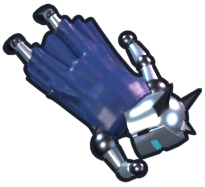
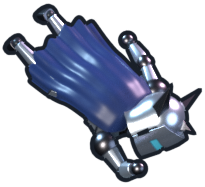
feat: add kneeling sprite and refine collapsed cape

diff --git a/dev-samples/3d-stage1/rigged-armor/build.py b/dev-samples/3d-stage1/rigged-armor/build.py
@@ -1174,14 +1174,12 @@ POSES = {
           'upper_arm.R': (170, 0, 40), 'forearm.R': (60, 0, 0),
           'shin.L': (-25, 0, 0), 'shin.R': (-10, 0, 0),
           **{f'cape.{s}.{k}': (a, 0, 0) for s in 'LCR'
-             for k, a in ((1, 0), (2, 20), (3, 5), (4, 5))}}),
+             for k, a in ((1, 0), (2, 22), (3, 24 if s == 'C' else 21),
+                          (4, -8 if s == 'C' else -12))}}),
 }
 COLLAPSED_FRAME = 120
 # Names of the sword parts in the right hand.
 SWORD_PREFIXES = ('Sword ', 'Chimera sword ', 'Cursed sword ', 'Blessed sword ')
-# Voxel size of the smooth envelope the collapsed cape is draped onto, and
-# how far (0 to 1) the cape drops from where its bones hold it onto it.
-DRAPE_VOXEL, DRAPE_AMOUNT, DRAPE_AMOUNT_BETWEEN_LEGS = .02, .3, .2
 
 
 def animate(rig, scene):
@@ -1201,7 +1199,7 @@ def animate(rig, scene):
     # the root by the lowest point's drop below the standing figure's lowest
     # point, and move it so the laid figure's footprint is centred. The
     # collapsed figure holds no sword, so swords are left out; the cape is
-    # cloth that the body presses flat, so it is left out too.
+    # cloth, so it is left out too.
     soft = SWORD_PREFIXES + ('Cape',)
 
     def points():
@@ -1228,7 +1226,6 @@ def animate(rig, scene):
         # world up and local Z world -Y.
         root.location = ((-center_x, lift, center_y) if frame == COLLAPSED_FRAME else (0, 0, 0))
         root.keyframe_insert('location', frame=frame, group='root')
-    drape_cape(rig, scene, standing)
     # Dim the visor while collapsed (heroic 'Player dimmed visor').
     visor = bpy.data.materials['Player visor glow'].node_tree.nodes['Principled BSDF']
     for frame in POSES:
@@ -1240,81 +1237,6 @@ def animate(rig, scene):
             visor.inputs[name].keyframe_insert('default_value', frame=frame)
     scene.frame_end = max(POSES)
     scene.frame_set(1)
-
-
-def drape_cape(rig, scene, floor_z):
-    """Let the cape fall onto the collapsed body: a Shrinkwrap modifier,
-    on only at the collapsed frame, projects it straight down onto a hidden,
-    smooth envelope of the laid body and the floor, so it lies along the back
-    and drops to the floor past the sides. The envelope is a voxel remesh of
-    the armor (which wraps its seams, belt and plate edges) and a thin floor
-    slab around it."""
-    scene.frame_set(COLLAPSED_FRAME)
-    depsgraph = bpy.context.evaluated_depsgraph_get()
-    bm = bmesh.new()
-    xs, ys = [], []
-    for obj in scene.objects:
-        if (obj.type == 'MESH' and obj.parent == rig and not obj.hide_render
-                and not obj.name.startswith(SWORD_PREFIXES + ('Cape',))):
-            evaluated = obj.evaluated_get(depsgraph)
-            mesh = evaluated.to_mesh()
-            mesh.transform(evaluated.matrix_world)
-            xs += [v.co.x for v in mesh.vertices]
-            ys += [v.co.y for v in mesh.vertices]
-            bm.from_mesh(mesh)
-            evaluated.to_mesh_clear()
-    margin = .3
-    slab = bmesh.ops.create_cube(bm, size=1)['verts']
-    low, high = Vector((min(xs) - margin, min(ys) - margin, floor_z - .03)), Vector((max(xs) + margin, max(ys) + margin, floor_z))
-    for vertex in slab:
-        vertex.co = Vector(low[i] if vertex.co[i] < 0 else high[i] for i in range(3))
-    target_mesh = bpy.data.meshes.new('Cape drape target')
-    bm.to_mesh(target_mesh)
-    bm.free()
-    target = bpy.data.objects.new('Cape drape target', target_mesh)
-    scene.collection.objects.link(target)
-    remesh = target.modifiers.new('Envelope', 'REMESH')
-    remesh.mode, remesh.voxel_size = 'VOXEL', DRAPE_VOXEL
-    bpy.context.view_layer.update()
-    evaluated = target.evaluated_get(bpy.context.evaluated_depsgraph_get())
-    envelope = bpy.data.meshes.new_from_object(evaluated)
-    target.modifiers.remove(remesh)
-    target.data = envelope
-    bpy.data.meshes.remove(target_mesh)
-    target.hide_render = True
-    target.display_type = 'WIRE'
-    target.hide_set(True)
-    cape_obj = bpy.data.objects['Cape']
-    # Finer cloth first, so the part past the sides drops steeply instead of
-    # cutting across the body's edge between coarse vertices.
-    finer = cape_obj.modifiers.new('Drape detail', 'SUBSURF')
-    finer.subdivision_type, finer.levels, finer.render_levels = 'SIMPLE', 2, 2
-    drape = cape_obj.modifiers.new('Drape when collapsed', 'SHRINKWRAP')
-    drape.target, drape.wrap_method, drape.offset = target, 'PROJECT', .008
-    drape.use_project_z, drape.use_negative_direction, drape.use_positive_direction = True, True, False
-    # Only part of the way down (DRAPE_AMOUNT), through a vertex group: fully
-    # dropped, the cloth looked like rubber pulled over the body.
-    # Over the gap between the legs (the middle of the cape below the hips)
-    # it drops less, blending in across and down, so it does not sag in.
-    amount = cape_obj.vertex_groups.new(name='Drape amount')
-    for index in range(len(cape_obj.data.vertices)):
-        row, column = divmod(index, CAPE_COLUMNS + 1)
-        across = max(0, 1 - abs(column - CAPE_COLUMNS / 2) / (CAPE_COLUMNS / 6))
-        down = min(1, max(0, (row / CAPE_ROWS - .55) / .15))
-        between_legs = across * down * down * (3 - 2 * down)
-        amount.add([index], DRAPE_AMOUNT + (DRAPE_AMOUNT_BETWEEN_LEGS - DRAPE_AMOUNT) * between_legs,
-                   'REPLACE')
-    drape.vertex_group = amount.name
-    soften = cape_obj.modifiers.new('Soften drape', 'SMOOTH')
-    soften.factor, soften.iterations = .5, 4
-    bpy.context.view_layer.objects.active = cape_obj
-    for index, modifier in enumerate((finer, drape, soften), start=1):
-        bpy.ops.object.modifier_move_to_index(modifier=modifier.name, index=index)
-    for frame in POSES:
-        for modifier in (finer, drape, soften):
-            modifier.show_viewport = modifier.show_render = frame == COLLAPSED_FRAME
-            modifier.keyframe_insert('show_viewport', frame=frame)
-            modifier.keyframe_insert('show_render', frame=frame)
 
 
 def setup_scene(scene):
@@ -1331,8 +1253,8 @@ def setup_scene(scene):
     scene.world.use_nodes = True
     scene.world.node_tree.nodes['Background'].inputs['Color'].default_value = (.012, .018, .03, 1)
     floor = material('Night floor', (.006, .008, .014), roughness=.8)
-    # The floor sits under the standing figure's visible parts (not the
-    # hidden cutters or the collapsed cape's drape envelope).
+    # The floor sits under the standing figure's visible parts.
+
     ground_z = min((obj.matrix_world @ v.co).z for obj in scene.objects
                    if obj.type == 'MESH' and obj.parent and not obj.hide_render
                    for v in obj.data.vertices)

diff --git a/dev-samples/3d-stage1/rigged-armor/sprite_pose.py b/dev-samples/3d-stage1/rigged-armor/sprite_pose.py
@@ -86,12 +86,44 @@ def apply_walk_pose(rig, lead):
         bone.location += bone.bone.matrix_local.to_3x3().inverted() @ Vector((0, 0, dz))
 
 
+def apply_kneeling_pose(scene, rig, parts, floor):
+    """Kneel with both hands on the floor and the cape falling over the back."""
+    rotations = {
+        'waist': (48, 0, 0), 'chest': (18, 0, 0),
+        'neck': (25, 0, 0), 'head': (18, 0, 0),
+        'thigh.L': (35, 0, 0), 'thigh.R': (35, 0, 0),
+        'shin.L': (-140, 0, 0), 'shin.R': (-140, 0, 0),
+        'foot.L': (35, 0, 0), 'foot.R': (35, 0, 0),
+        'upper_arm.L': (65, 0, 8), 'upper_arm.R': (65, 0, -8),
+        'forearm.L': (5, 0, 0), 'forearm.R': (5, 0, 0),
+        **{f'cape.{side}.{segment}': (angle, 0, 0) for side in 'LCR'
+           for segment, angle in ((1, 0), (2, 35), (3, 20), (4, 10))},
+    }
+    for name, angles in rotations.items():
+        rig.pose.bones[name].rotation_euler = tuple(math.radians(v) for v in angles)
+    bpy.context.view_layer.update()
+    depsgraph = bpy.context.evaluated_depsgraph_get()
+    heights = []
+    for part in parts:
+        if part.name.startswith(('Cape', *SWORDS.values())):
+            continue
+        evaluated = part.evaluated_get(depsgraph)
+        mesh = evaluated.to_mesh()
+        heights.extend((evaluated.matrix_world @ vertex.co).z for vertex in mesh.vertices)
+        evaluated.to_mesh_clear()
+    rig.pose.bones['root'].location.y += floor - min(heights)
+
+
 def bake(scene, rig, parts, pose, facing, floor, place=Matrix.Identity(4)):
     """Baked mesh copies of the posed, turned and leaned figure, each with its
     world shape in its mesh, transformed by `place` (applied last)."""
     collapsed = pose == 'collapsed'
-    rig.rotation_euler.z = 0 if collapsed else math.radians(FACINGS[facing])
-    scene.frame_set(POSE_FRAMES['rest' if pose in WALK_POSES else pose])
+    kneeling = pose == 'kneeling'
+    rig.rotation_euler.z = (math.radians(45) if kneeling else
+                            0 if collapsed else math.radians(FACINGS[facing]))
+    scene.frame_set(POSE_FRAMES['rest' if pose in WALK_POSES or kneeling else pose])
+    if kneeling:
+        apply_kneeling_pose(scene, rig, parts, floor)
     clavicle = rig.pose.bones['clavicle.R']
     shoulder_location = clavicle.location.copy()
     if pose in WALK_POSES[1:]:
@@ -107,14 +139,14 @@ def bake(scene, rig, parts, pose, facing, floor, place=Matrix.Identity(4)):
     bpy.context.view_layer.update()
     depsgraph = bpy.context.evaluated_depsgraph_get()
     feet = Vector((0, 0, floor))
-    body = (Matrix.Identity(4) if collapsed else
+    body = (Matrix.Identity(4) if collapsed or kneeling else
             Matrix.Translation(feet) @ Matrix.Rotation(-BODY_LEAN, 4, 'X') @ Matrix.Translation(-feet))
     neck = body @ (rig.matrix_world @ rig.pose.bones['head'].head)
-    head = body if collapsed else (Matrix.Translation(neck) @ Matrix.Rotation(-HEAD_TILT, 4, 'X')
+    head = body if collapsed or kneeling else (Matrix.Translation(neck) @ Matrix.Rotation(-HEAD_TILT, 4, 'X')
                                    @ Matrix.Translation(-neck) @ body)
     copies, still = [], {}
     for part in parts:
-        if collapsed and part.name.startswith(tuple(SWORDS.values())):
+        if (collapsed or kneeling) and part.name.startswith(tuple(SWORDS.values())):
             continue
         evaluated = part.evaluated_get(depsgraph)
         mesh = bpy.data.meshes.new_from_object(evaluated, preserve_all_data_layers=True,
@@ -158,7 +190,7 @@ def heroic_player(x, y, sword=None, facing='down', collapsed=False, *, pose='res
             or o.name.startswith('Cape drape target')]
     for obj in kept:
         scene.collection.objects.link(obj)
-    show_sword(kept, None if collapsed else HEROIC_SWORDS[sword])
+    show_sword(kept, None if collapsed or pose == 'kneeling' else HEROIC_SWORDS[sword])
     parts = figure_parts(scene, rig)
     floor, top = standing_extent(scene, rig, parts)
     scale = HEROIC_PLAYER_HEIGHT / (top - floor)

diff --git a/dev-samples/3d-stage1/rigged-armor/preview-kneeling.py b/dev-samples/3d-stage1/rigged-armor/preview-kneeling.py
@@ -1,41 +1,24 @@
 """Prototype a kneeling pose using the generated chibi armor rig."""
-import math
 from pathlib import Path
+import sys
 
 import bpy
 from mathutils import Vector
 
 HERE = Path(__file__).resolve().parent
+sys.path.insert(0, str(HERE))
+from sprite_pose import apply_kneeling_pose, figure_parts, standing_extent
 bpy.ops.wm.open_mainfile(filepath=str(HERE / 'hero-rig-chibi.blend'))
 scene = bpy.context.scene
 scene.frame_set(1)
 rig = bpy.data.objects['Hero rig']
+parts = figure_parts(scene, rig)
+floor, _ = standing_extent(scene, rig, parts)
 rig.animation_data_clear()
 for obj in scene.objects:
     if obj.name.startswith(('Sword ', 'Chimera sword ', 'Cursed sword ', 'Blessed sword ')):
         obj.hide_render = True
-
-rotations = {
-    'waist': (48, 0, 0), 'chest': (18, 0, 0), 'neck': (25, 0, 0), 'head': (18, 0, 0),
-    'thigh.L': (35, 0, 0), 'thigh.R': (35, 0, 0),
-    'shin.L': (-140, 0, 0), 'shin.R': (-140, 0, 0),
-    'foot.L': (35, 0, 0), 'foot.R': (35, 0, 0),
-    'upper_arm.L': (65, 0, 8), 'upper_arm.R': (65, 0, -8),
-    'forearm.L': (5, 0, 0), 'forearm.R': (5, 0, 0),
-}
-for name, angles in rotations.items():
-    rig.pose.bones[name].rotation_euler = tuple(math.radians(v) for v in angles)
-bpy.context.view_layer.update()
-depsgraph = bpy.context.evaluated_depsgraph_get()
-points = []
-for obj in scene.objects:
-    if obj.type == 'MESH' and obj.parent == rig and not obj.hide_render and not obj.name.startswith('Cape'):
-        evaluated = obj.evaluated_get(depsgraph)
-        mesh = evaluated.to_mesh()
-        points.extend(evaluated.matrix_world @ v.co for v in mesh.vertices)
-        evaluated.to_mesh_clear()
-# The studio floor is at z=0.
-rig.pose.bones['root'].location.y -= min(p.z for p in points)
+apply_kneeling_pose(scene, rig, parts, floor)
 bpy.context.view_layer.update()
 bpy.ops.wm.save_as_mainfile(filepath=str(HERE / 'hero-rig-chibi-kneeling-preview.blend'))
 scene.render.filepath = str(HERE / 'chibi-kneeling-preview.png')
@@ -45,4 +28,9 @@ target = Vector((0, 0, .3))
 scene.camera.location = target + Vector((0, -4, 6.928))
 scene.camera.rotation_euler = (target - scene.camera.location).to_track_quat('-Z', 'Y').to_euler()
 scene.render.filepath = str(HERE / 'chibi-kneeling-top-preview.png')
+bpy.ops.render.render(write_still=True)
+# A level side view makes the cape's clearance from the back visible.
+scene.camera.location = target + Vector((8, 0, 0))
+scene.camera.rotation_euler = (target - scene.camera.location).to_track_quat('-Z', 'Y').to_euler()
+scene.render.filepath = str(HERE / 'chibi-kneeling-side-preview.png')
 bpy.ops.render.render(write_still=True)

diff --git a/dev-samples/3d-stage1/rigged-armor/preview-collapsed-cape.py b/dev-samples/3d-stage1/rigged-armor/preview-collapsed-cape.py
@@ -1,0 +1,36 @@
+"""Compare the collapsed cape bones with a small bend, without drape projection."""
+import math
+from pathlib import Path
+
+import bpy
+from mathutils import Vector
+
+HERE = Path(__file__).resolve().parent
+bpy.ops.wm.open_mainfile(filepath=str(HERE / 'hero-rig-chibi.blend'))
+scene = bpy.context.scene
+scene.frame_set(120)
+rig = bpy.data.objects['Hero rig']
+rig.animation_data_clear()
+cape = bpy.data.objects['Cape']
+# Only the cape's original armature deformation is used for this study.
+for name in ('Drape detail', 'Drape when collapsed', 'Soften drape'):
+    if name in cape.modifiers:
+        cape.modifiers.remove(cape.modifiers[name])
+for obj in scene.objects:
+    if obj.name.startswith(('Sword ', 'Chimera sword ', 'Cursed sword ', 'Blessed sword ')):
+        obj.hide_render = True
+scene.cycles.samples = 32
+scene.camera.data.ortho_scale = 1.6
+for label, bend, leg_bend in (('knee', 22, 21),):
+    for side in 'LCR':
+        rig.pose.bones[f'cape.{side}.2'].rotation_euler.x = math.radians(bend)
+        rig.pose.bones[f'cape.{side}.3'].rotation_euler.x = math.radians(leg_bend + (3 if side == 'C' else 0))
+        rig.pose.bones[f'cape.{side}.4'].rotation_euler.x = math.radians(-8 if side == 'C' else -12)
+    bpy.context.view_layer.update()
+    target = Vector((0, 0, .23))
+    for view, offset in (('side', Vector((6, 6, 1.8))),
+                         ('top', Vector((0, -4, 6.928)))):
+        scene.camera.location = target + offset
+        scene.camera.rotation_euler = (target - scene.camera.location).to_track_quat('-Z', 'Y').to_euler()
+        scene.render.filepath = str(HERE / f'collapsed-cape-{label}-{view}.png')
+        bpy.ops.render.render(write_still=True)

diff --git a/dev-samples/3d-stage1/export-sprites.py b/dev-samples/3d-stage1/export-sprites.py
@@ -38,8 +38,9 @@ walk_models = {
     for pose in ('walk-right', 'walk-left')
 }
 models += [(char, name, (0, 0)) for char, (name, _, _, _) in walk_models.items()]
+models.append(('@-kneeling', 'player-kneeling', (0, 0)))
 # Resolve left-facing grips from the rig, including the standing sprite.
-player_poses = {**walk_models, **{
+player_poses = {'@-kneeling': ('player-kneeling', None, 'down', 'kneeling'), **walk_models, **{
     char + '<': (name + '-left', sword, 'left', 'rest')
     for char, name, sword in player_swords
 }}
@@ -68,7 +69,11 @@ elif '--player-walk' in sys.argv:
 for char, name, (x, y) in models:
     bpy.ops.wm.open_mainfile(filepath=str(blend_path(group_of(char))))
     scene = bpy.context.scene
-    if char in player_poses:
+    if char == '@_':
+        selected = set(heroic_player(x, y, collapsed=True))
+        for obj in selected:
+            obj.data.transform(Matrix.Scale(1.6, 4))
+    elif char in player_poses:
         _, sword, facing, pose = player_poses[char]
         selected = set(heroic_player(x, y, sword, facing, pose=pose))
         for obj in selected:

diff --git a/dev-samples/3d-stage1/rigged-armor/build-chibi.py b/dev-samples/3d-stage1/rigged-armor/build-chibi.py
@@ -80,8 +80,7 @@ def chibify(rig, scene):
     worlds = {o.name: bone_map(o.parent_bone, o.name.startswith(ROUND_PARTS)) @ o.matrix_world
               for o in rigid}
     cape = bpy.data.objects['Cape']
-    # Only the bone groups move the cape; others (the saved tall rig's
-    # 'Drape amount') are skipped.
+    # Only the bone groups move the cape.
     groups = {g.index: g.name for g in cape.vertex_groups if g.name in head}
     cape_points = []
     for vertex in cape.data.vertices:

diff --git a/dev-samples/3d-stage1/rigged-armor/README.md b/dev-samples/3d-stage1/rigged-armor/README.md
@@ -112,9 +112,8 @@ Object Mode の Object > Animation > Clear Animation でサンプルを外して
 倒れた姿勢（フレーム120）はうつ伏せで頭を画面の右下へ向け、顔をカメラ側へ55度向け、
 頭と首を後ろへ傾けて胸を床に着け、右腕を頭の先へ投げ出す。覗き窓はこのフレームだけ暗くする。
 床への接地と中央寄せは組み立て時に計算する（剣・マントは除く）。
-マントはこのフレームだけ、鎧と床をボクセルで包んだなめらかな面（非表示の `Cape drape target`）へ
-真下に投影して体にかける。落とす量は全体で0.3、脚の間で0.2（`DRAPE_AMOUNT`、
-`DRAPE_AMOUNT_BETWEEN_LEGS`）。マントの形は、裾へ行くほど後ろと体の左へ流れる（heroic のマントの半分の量、
+マントはボーンの回転で背中から脚に沿わせ、膝のあたりを緩く下げる。
+マントの形は、裾へ行くほど後ろと体の左へ流れる（heroic のマントの半分の量、
 `CAPE_DRIFT_BACK`、`CAPE_DRIFT_SIDE`）。
 
 ## 頭身を下げた版とスプライト
@@ -128,7 +127,7 @@ blender --factory-startup --background --threads 4 --python dev-samples/3d-stage
 断面方向はその1.2倍に太らせて約4頭身にする（`hero-rig-chibi.blend` と `chibi-*.png`）。
 鎖骨は長さ方向も太らせて肩幅を合わせ、マントは胸と同じ縮め方にする。丸い部品（関節の球・肘当て・膝当て・
 肩当て・籠手）と剣は縦横同じ倍率で縮めて形を保つ。斜めのボーンを太らせるとせん断になるため、
-部品の変形はメッシュへ焼き込む。組み立てにはマントの包み面を作るため約3分かかる。
+部品の変形はメッシュへ焼き込む。
 `-- --only rest,step` のように指定すると、そのポーズの画像だけを描く。
 
 `sprite_pose.py` はスプライト用のポーズを付ける。向き（下・左・右・上）に回したあと、足元を中心に体を
@@ -137,6 +136,15 @@ blender --factory-startup --background --threads 4 --python dev-samples/3d-stage
 確認画像（`sprite-<ポーズ>-<向き>.png`）を描く。`../build-heroic.py` は同じ処理でプレイヤーを heroic の
 シーンに置き、heroic の以前のプレイヤーの1.05倍の高さ（`HEROIC_PLAYER_HEIGHT`）にする。
 ゲーム用画像の再生成手順は `../README.md` の「キャラクター素材の再生成」を参照。
+
+ひざまずくポーズの試作と、ゲーム用の南東向き画像は次のコマンドで再生成できる。
+前者は正面・見下ろし・横からの確認画像と試作用の `.blend` を作り、後者は
+`assets/characters/player-kneeling.png` を書き出す。ゲーム画面への接続はまだ行っていない。
+
+```bash
+blender --factory-startup --background --threads 4 --python dev-samples/3d-stage1/rigged-armor/preview-kneeling.py
+blender --factory-startup --background --threads 4 --python dev-samples/3d-stage1/export-sprites.py -- --only @-kneeling
+```
 
 ## 再生成と構造変更
 
